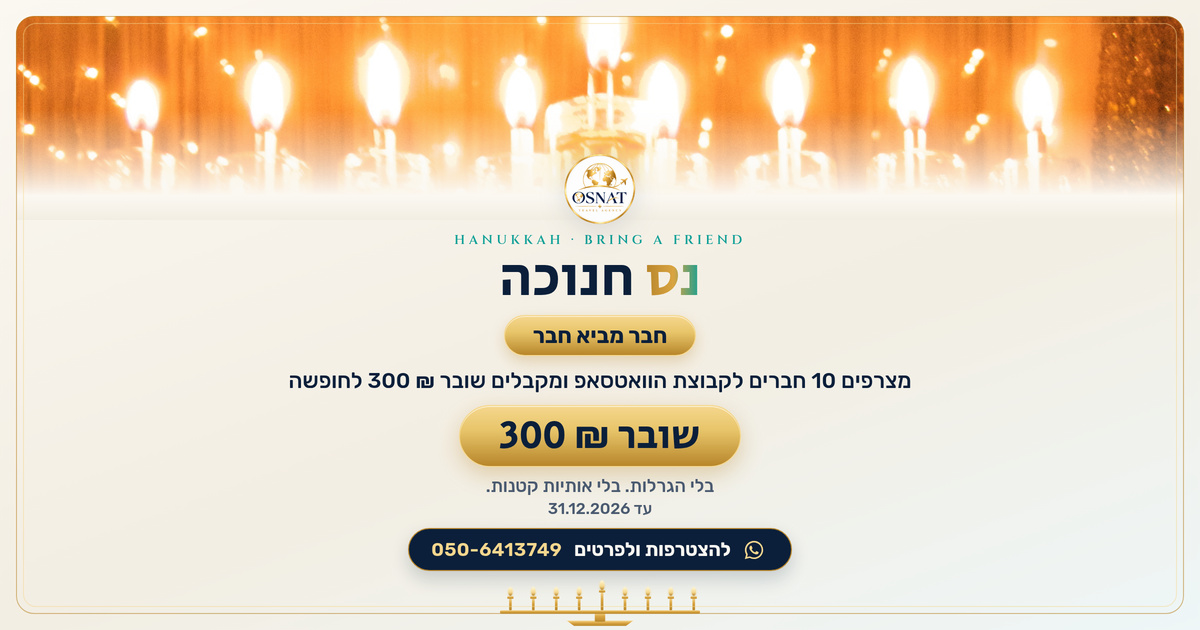
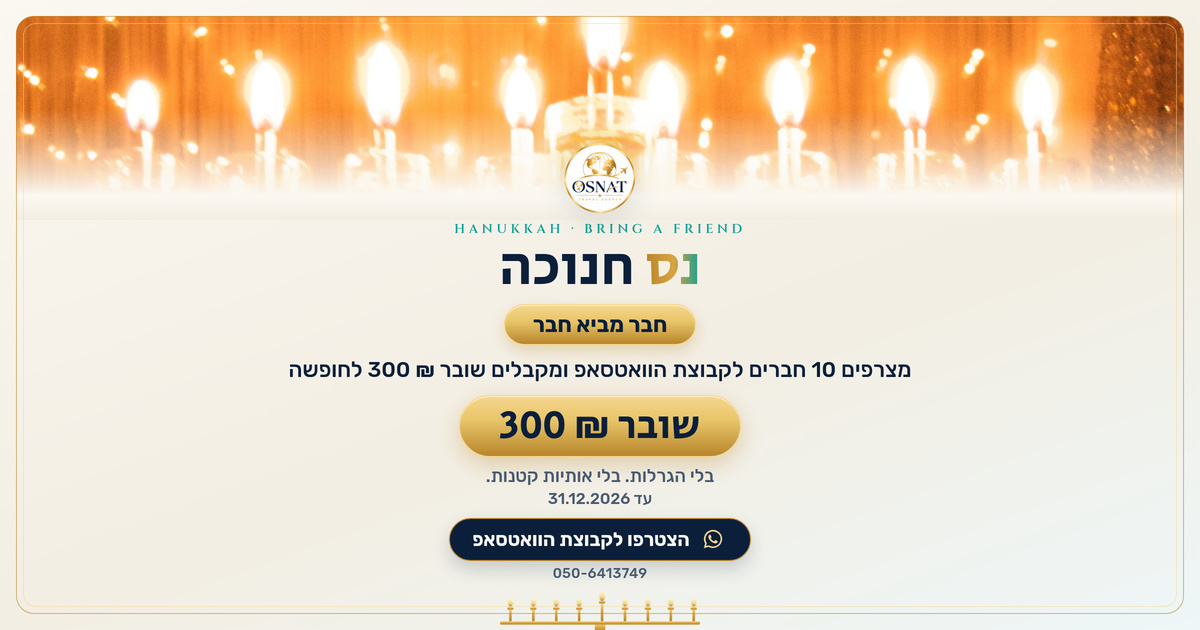
Live: Hanukkah campaign page /hanukkah/ + 'מבצעים' top-bar link (brand hidden <=1500px, tighter links <=1860px); ₪ rendered in Rubik (Secular One draws it like 'שח')

Changed region(s): [[0.2467, 0.2111, 0.7708, 1.0]]

diff --git a/hanukkah/index.html b/hanukkah/index.html
@@ -1,0 +1,106 @@
+<!DOCTYPE html>
+<html dir="rtl" lang="he"><head><meta charset="utf-8"/><meta property="og:title" content="נס חנוכה – חבר מביא חבר | OSNAT TRAVEL AGENCY"/><meta property="og:image" content="https://osnat-travel.com/hanukkah/og.jpg?v=1"/><meta property="og:image:width" content="1200"/><meta property="og:image:height" content="630"/><meta property="og:description" content="מצרפים 10 חברים לקבוצת הוואטסאפ ומקבלים שובר 300 ₪ להזמנת חופשה. בלי הגרלות. בלי אותיות קטנות."/><meta property="og:url" content="https://osnat-travel.com/hanukkah/"/><meta property="og:type" content="website"/><meta property="og:locale" content="he_IL"/><meta property="og:site_name" content="OSNAT TRAVEL AGENCY"/><meta name="twitter:card" content="summary_large_image"/><meta name="description" content="מצרפים 10 חברים לקבוצת הוואטסאפ ומקבלים שובר 300 ₪ להזמנת חופשה. בלי הגרלות. בלי אותיות קטנות."/><meta content="#FBF8F2" name="theme-color"/><meta content="width=device-width,initial-scale=1" name="viewport"/>
+<title>נס חנוכה – חבר מביא חבר | OSNAT TRAVEL AGENCY</title>
+<link href="/assets/favicon-32.png" rel="icon" type="image/png"/><link href="/apple-touch-icon.png" rel="apple-touch-icon"/><meta content="OSNAT TRAVEL" name="apple-mobile-web-app-title"/>
+<link href="https://fonts.googleapis.com/css2?family=Heebo:wght@300;400;600;800&amp;family=Cinzel:wght@600&amp;display=swap" rel="stylesheet"/>
+<style>
+:root{--navy:#0b1b33;--navy2:#132a4d;--gold:#d4af37;--gold2:#f3d77a}
+*{box-sizing:border-box}body{margin:0;font-family:'Heebo',sans-serif;background:#f7f3ea;color:var(--navy)}
+.hero{background:radial-gradient(circle at 50% 0,#1d3a66 0,var(--navy) 70%);color:#fff;text-align:center;padding:70px 20px 60px;border-bottom:3px solid var(--gold)}
+.hero img{width:120px;height:120px;object-fit:contain;background:#fff;border-radius:22px;padding:8px;box-shadow:0 8px 30px rgba(0,0,0,.4)}
+.hero .brand{font-family:'Cinzel',serif;color:var(--gold);letter-spacing:3px;margin:18px 0 4px;font-size:15px}
+.hero h1{font-size:clamp(30px,8vw,48px);font-weight:800;margin:4px 0}.hero p{color:#d9e2f0;font-weight:300;margin:6px 0 0;font-size:17px}
+.hero .line{width:70px;height:2px;background:var(--gold);margin:16px auto}
+.grid{max-width:1150px;margin:-30px auto 40px;padding:0 16px;display:grid;gap:22px;grid-template-columns:repeat(auto-fill,minmax(300px,1fr))}
+.card{background:#fff;border-radius:20px;overflow:hidden;box-shadow:0 6px 22px rgba(11,27,51,.12);transition:transform .3s,box-shadow .3s;border:1px solid rgba(212,175,55,.3);display:flex;flex-direction:column}
+.card:hover{transform:translateY(-6px);box-shadow:0 16px 40px rgba(11,27,51,.22)}
+.img{position:relative;display:block;aspect-ratio:16/10;overflow:hidden}.img img{width:100%;height:100%;object-fit:cover;transition:transform .6s}.card:hover .img img{transform:scale(1.07)}
+.date{position:absolute;bottom:12px;right:12px;background:rgba(11,27,51,.85);color:var(--gold2);padding:6px 12px;border-radius:999px;font-size:14px;font-weight:600}
+.body{padding:18px 20px 20px;display:flex;flex-direction:column;flex:1}h2{margin:0 0 8px;font-size:24px;font-weight:800}
+ul{list-style:none;padding:0;margin:0 0 14px;color:#3a4a63}li{padding:3px 0}li:before{content:"✦ ";color:var(--gold)}
+.price{margin-top:auto;border-top:1px dashed #e3d6ad;padding-top:12px}.price b{font-size:28px;color:var(--navy)}.price span{color:#6b7a90}.price small{display:block;color:#8a96a8}
+.cta{margin-top:14px;display:block;text-align:center;padding:13px;border-radius:12px;background:linear-gradient(135deg,var(--gold),var(--gold2));color:var(--navy);font-weight:800;text-decoration:none;font-size:17px;transition:filter .2s}.cta:hover{filter:brightness(1.08)}
+footer{text-align:center;padding:30px 16px 50px;color:#56657c}footer a{display:inline-block;margin-top:10px;background:#25d366;color:#fff;padding:12px 22px;border-radius:999px;text-decoration:none;font-weight:600}
+</style>
+<link href="https://fonts.googleapis.com/css2?family=Heebo:wght@400;600&amp;display=swap" rel="stylesheet"/>
+<link href="/assets/vn/navbar.css" rel="stylesheet"/><script defer="" src="/assets/vn/navbar.js"></script><link href="https://fonts.googleapis.com/css2?family=Cinzel:wght@500;600&amp;family=Secular+One&amp;family=Rubik:wght@300;400;500;700&amp;display=swap" rel="stylesheet"/><link href="/assets/vn/vn-theme.css" rel="stylesheet"/>
+<link rel="canonical" href="https://osnat-travel.com/hanukkah/"><link rel="stylesheet" href="/hanukkah/hanukkah.css"></head><body class="pg-packages pg-hanukkah">
+<!-- HERO: to swap the photo replace hero.jpg (desktop) / hero-mobile.jpg (mobile) in src/pages/hanukkah/ and update the credit line in the footer -->
+<header class="hero hk-hero">
+<div class="hk-photo"><picture><source media="(max-width:760px)" srcset="/hanukkah/hero-mobile.jpg"/><img src="/hanukkah/hero.jpg" alt="חנוכייה עם נרות דולקים" fetchpriority="high"/></picture></div>
+<img class="hk-logo" alt="OSNAT TRAVEL AGENCY" src="/assets/logo.png"/>
+<p class="k">HANUKKAH · BRING A FRIEND</p>
+<h1>נס <span class="grad">חנוכה</span></h1>
+<p class="hk-tag">חבר מביא חבר</p>
+<p class="hk-lead">מצרפים <b>10</b> חברים לקבוצת הוואטסאפ של OSNAT TRAVEL AGENCY ומקבלים שובר <b>300 <span class="hk-ils">₪</span></b> להזמנת חופשה</p>
+<p class="hk-slogan">בלי הגרלות. בלי אותיות קטנות.</p>
+<p class="hk-until">הקמפיין עד <bdi>31.12.2026</bdi></p>
+<div class="hk-ctas">
+<a class="cta hk-btn hk-join" href="https://chat.whatsapp.com/CuZb58hu9zpA4V2IP5JL3p?mode=gi_t" target="_blank" rel="noopener"><svg viewBox="0 0 24 24" aria-hidden="true"><path d="M17.47 14.38c-.3-.15-1.76-.87-2.03-.97-.27-.1-.47-.15-.67.15-.2.3-.77.97-.94 1.16-.17.2-.35.22-.64.07-.3-.15-1.26-.46-2.39-1.47-.88-.79-1.48-1.76-1.65-2.06-.17-.3-.02-.46.13-.6.13-.13.3-.35.45-.52.15-.17.2-.3.3-.5.1-.2.05-.37-.02-.52-.08-.15-.67-1.61-.92-2.21-.24-.58-.49-.5-.67-.51h-.57c-.2 0-.52.07-.79.37-.27.3-1.04 1.02-1.04 2.48s1.07 2.88 1.21 3.07c.15.2 2.1 3.2 5.08 4.49.71.31 1.26.49 1.69.63.71.23 1.36.2 1.87.12.57-.09 1.76-.72 2.01-1.41.25-.7.25-1.29.17-1.41-.07-.13-.27-.2-.57-.35zM12.05 21.79h-.01a9.87 9.87 0 0 1-5.03-1.38l-.36-.21-3.74.98 1-3.65-.24-.37A9.86 9.86 0 0 1 2.15 12C2.15 6.55 6.6 2.1 12.06 2.1c2.64 0 5.12 1.03 6.99 2.9a9.82 9.82 0 0 1 2.89 7c0 5.45-4.44 9.89-9.89 9.89zM20.46 3.49A11.82 11.82 0 0 0 12.05 0C5.5 0 .16 5.34.16 11.89c0 2.1.55 4.14 1.59 5.95L.06 24l6.31-1.65a11.88 11.88 0 0 0 5.68 1.45h.01c6.55 0 11.89-5.34 11.89-11.9 0-3.18-1.24-6.16-3.49-8.41z"/></svg>הצטרפו לקבוצת הוואטסאפ</a>
+<a class="cta hk-btn hk-btn-ghost" href="#share">שתפו עם חברים</a>
+</div>
+</header>
+
+<section class="hk-sec">
+<p class="k">HOW IT WORKS</p>
+<h2 class="hk-h">איך זה <span class="grad">עובד</span></h2>
+<main class="grid hk-steps">
+<article class="card"><div class="body"><span class="hk-num">1</span><h2>שולחים לחברים את הקישור</h2><ul><li>משתפים את הקישור לקבוצת הוואטסאפ של OSNAT TRAVEL AGENCY</li></ul></div></article>
+<article class="card"><div class="body"><span class="hk-num">2</span><h2>10 חברים מצטרפים</h2><ul><li>10 חברים מצטרפים לקבוצה</li></ul></div></article>
+<article class="card"><div class="body"><span class="hk-num">3</span><h2>מקבלים שובר 300 <span class="hk-ils">₪</span></h2><ul><li>שולחים לאסנת צילום מסך של הצטרפות החברים לקבוצה ומקבלים שובר להזמנת חופשה</li></ul></div></article>
+</main>
+</section>
+
+<section class="hk-sec">
+<main class="grid hk-two">
+<article class="card hk-voucher"><div class="body">
+<img class="hk-vimg" src="/hanukkah/voucher.jpg" alt="שובר מתנה 300 ₪ – נס חנוכה, חבר מביא חבר (דוגמה)" loading="lazy"/>
+<p class="k">YOUR VOUCHER</p>
+<h2>שובר <span class="grad">להזמנת חופשה</span></h2>
+<div class="price"><b>300 <span class="hk-ils">₪</span></b> <span>למי שמצרף 10 חברים לקבוצה</span></div>
+<a class="cta hk-btn hk-sec-wa" href="https://wa.me/972506413749?text=%D7%94%D7%99%D7%99%20%D7%90%D7%A1%D7%A0%D7%AA%2C%20%D7%A9%D7%99%D7%AA%D7%A4%D7%AA%D7%99%20%D7%90%D7%AA%20%D7%A7%D7%91%D7%95%D7%A6%D7%AA%20%D7%94%D7%95%D7%95%D7%90%D7%98%D7%A1%D7%90%D7%A4%20%D7%91%D7%9E%D7%91%D7%A6%D7%A2%20%D7%A0%D7%A1%20%D7%97%D7%A0%D7%95%D7%9B%D7%94%20%D7%95-10%20%D7%97%D7%91%D7%A8%D7%99%D7%9D%20%D7%94%D7%A6%D7%98%D7%A8%D7%A4%D7%95.%20%D7%9E%D7%A6%D7%A8%D7%A3%2F%D7%AA%20%D7%A6%D7%99%D7%9C%D7%95%D7%9D%20%D7%9E%D7%A1%D7%9A%20%D7%A9%D7%9C%20%D7%94%D7%A6%D7%98%D7%A8%D7%A4%D7%95%D7%AA%D7%9D%20%D7%9C%D7%A7%D7%91%D7%9C%D7%AA%20%D7%94%D7%A9%D7%95%D7%91%D7%A8." target="_blank" rel="noopener">שליחת צילום מסך לאסנת בוואטסאפ</a>
+</div></article>
+<article class="card"><div class="body">
+<p class="k">THE TERMS</p>
+<h2>תנאי <span class="grad">השובר</span></h2>
+<ul>
+<li>הקמפיין עד 31.12.2026</li>
+<li>כדי לקבל את השובר, מציגים צילום מסך של הצטרפות החברים לקבוצה</li>
+<li>אפשר לממש את השובר בהזמנת מלון וטיסה, או מלון בלבד</li>
+<li>השובר תקף לשנה מיום ההנפקה</li>
+<li>אפשר להעביר את השובר לכל אדם</li>
+<li>אם ההזמנה בוטלה, אפשר לממש את השובר בהזמנה הבאה</li>
+<li>אי אפשר לפדות את השובר בכסף</li>
+</ul>
+</div></article>
+</main>
+</section>
+
+<section class="hk-sec" id="share">
+<p class="k">SHARE WITH FRIENDS</p>
+<h2 class="hk-h">שתפו <span class="grad">עם חברים</span></h2>
+<main class="grid hk-one">
+<article class="card"><div class="body">
+<ul><li>שולחים לחברים הודעה מוכנה עם הקישור לקבוצה, או מעתיקים את הקישור</li></ul>
+<div class="hk-ctas">
+<a class="cta hk-btn hk-sec-wa" href="https://wa.me/?text=%D7%94%D7%99%D7%99%21%20%D7%9E%D7%A6%D7%98%D7%A8%D7%A4%D7%99%D7%9D%20%D7%9C%D7%A7%D7%91%D7%95%D7%A6%D7%AA%20%D7%94%D7%95%D7%95%D7%90%D7%98%D7%A1%D7%90%D7%A4%20%D7%A9%D7%9C%20OSNAT%20TRAVEL%20AGENCY%20%E2%80%93%20%D7%97%D7%95%D7%A4%D7%A9%D7%95%D7%AA%20%D7%91%D7%94%D7%AA%D7%90%D7%9E%D7%94%20%D7%90%D7%99%D7%A9%D7%99%D7%AA%3A%0Ahttps%3A%2F%2Fchat.whatsapp.com%2FCuZb58hu9zpA4V2IP5JL3p%3Fmode%3Dgi_t" target="_blank" rel="noopener">שיתוף בוואטסאפ</a>
+<a class="cta hk-btn hk-btn-ghost" href="#" onclick="var b=this,t='https://chat.whatsapp.com/CuZb58hu9zpA4V2IP5JL3p?mode=gi_t';(navigator.clipboard?navigator.clipboard.writeText(t):Promise.reject()).then(function(){b.textContent='הקישור הועתק ✓'},function(){window.prompt('העתיקו את הקישור:',t)});return false">העתקת הקישור לקבוצה</a>
+</div>
+</div></article>
+</main>
+</section>
+
+<section class="hk-sec hk-end">
+<p class="k">JOIN THE GROUP</p>
+<h2 class="hk-h">מצטרפים <span class="grad">לקבוצה</span></h2>
+<div class="hk-ctas"><a class="cta hk-btn hk-join" href="https://chat.whatsapp.com/CuZb58hu9zpA4V2IP5JL3p?mode=gi_t" target="_blank" rel="noopener"><svg viewBox="0 0 24 24" aria-hidden="true"><path d="M17.47 14.38c-.3-.15-1.76-.87-2.03-.97-.27-.1-.47-.15-.67.15-.2.3-.77.97-.94 1.16-.17.2-.35.22-.64.07-.3-.15-1.26-.46-2.39-1.47-.88-.79-1.48-1.76-1.65-2.06-.17-.3-.02-.46.13-.6.13-.13.3-.35.45-.52.15-.17.2-.3.3-.5.1-.2.05-.37-.02-.52-.08-.15-.67-1.61-.92-2.21-.24-.58-.49-.5-.67-.51h-.57c-.2 0-.52.07-.79.37-.27.3-1.04 1.02-1.04 2.48s1.07 2.88 1.21 3.07c.15.2 2.1 3.2 5.08 4.49.71.31 1.26.49 1.69.63.71.23 1.36.2 1.87.12.57-.09 1.76-.72 2.01-1.41.25-.7.25-1.29.17-1.41-.07-.13-.27-.2-.57-.35zM12.05 21.79h-.01a9.87 9.87 0 0 1-5.03-1.38l-.36-.21-3.74.98 1-3.65-.24-.37A9.86 9.86 0 0 1 2.15 12C2.15 6.55 6.6 2.1 12.06 2.1c2.64 0 5.12 1.03 6.99 2.9a9.82 9.82 0 0 1 2.89 7c0 5.45-4.44 9.89-9.89 9.89zM20.46 3.49A11.82 11.82 0 0 0 12.05 0C5.5 0 .16 5.34.16 11.89c0 2.1.55 4.14 1.59 5.95L.06 24l6.31-1.65a11.88 11.88 0 0 0 5.68 1.45h.01c6.55 0 11.89-5.34 11.89-11.9 0-3.18-1.24-6.16-3.49-8.41z"/></svg>הצטרפו לקבוצת הוואטסאפ</a></div>
+</section>
+
+<footer>שאלות על המבצע? כתבו לנו בוואטסאפ או התקשרו <bdi>050-6413749</bdi><br/><a href="https://wa.me/972506413749?text=%D7%94%D7%99%D7%99%20%D7%90%D7%A1%D7%A0%D7%AA%2C%20%D7%99%D7%A9%20%D7%9C%D7%99%20%D7%A9%D7%90%D7%9C%D7%94%20%D7%A2%D7%9C%20%D7%9E%D7%91%D7%A6%D7%A2%20%D7%A0%D7%A1%20%D7%97%D7%A0%D7%95%D7%9B%D7%94%20%E2%80%93%20%D7%97%D7%91%D7%A8%20%D7%9E%D7%91%D7%99%D7%90%20%D7%97%D7%91%D7%A8" target="_blank" rel="noopener">💬 דברו איתנו בוואטסאפ</a>
+<p class="hk-credit" dir="ltr">Photo: Daniel Dimitrov (Wikimedia Commons: Bacillus.Bulgaricus), <a href="https://creativecommons.org/licenses/by-sa/4.0/" target="_blank" rel="noopener">CC BY-SA 4.0</a> · <a href="https://commons.wikimedia.org/wiki/File:A_Hanukkah_menorah_(Chanukiah).jpg" target="_blank" rel="noopener">A Hanukkah menorah (Chanukiah).jpg</a> · cropped</p></footer>
+<div class="hk-sticky"><a class="cta hk-btn hk-join" href="https://chat.whatsapp.com/CuZb58hu9zpA4V2IP5JL3p?mode=gi_t" target="_blank" rel="noopener"><svg viewBox="0 0 24 24" aria-hidden="true"><path d="M17.47 14.38c-.3-.15-1.76-.87-2.03-.97-.27-.1-.47-.15-.67.15-.2.3-.77.97-.94 1.16-.17.2-.35.22-.64.07-.3-.15-1.26-.46-2.39-1.47-.88-.79-1.48-1.76-1.65-2.06-.17-.3-.02-.46.13-.6.13-.13.3-.35.45-.52.15-.17.2-.3.3-.5.1-.2.05-.37-.02-.52-.08-.15-.67-1.61-.92-2.21-.24-.58-.49-.5-.67-.51h-.57c-.2 0-.52.07-.79.37-.27.3-1.04 1.02-1.04 2.48s1.07 2.88 1.21 3.07c.15.2 2.1 3.2 5.08 4.49.71.31 1.26.49 1.69.63.71.23 1.36.2 1.87.12.57-.09 1.76-.72 2.01-1.41.25-.7.25-1.29.17-1.41-.07-.13-.27-.2-.57-.35zM12.05 21.79h-.01a9.87 9.87 0 0 1-5.03-1.38l-.36-.21-3.74.98 1-3.65-.24-.37A9.86 9.86 0 0 1 2.15 12C2.15 6.55 6.6 2.1 12.06 2.1c2.64 0 5.12 1.03 6.99 2.9a9.82 9.82 0 0 1 2.89 7c0 5.45-4.44 9.89-9.89 9.89zM20.46 3.49A11.82 11.82 0 0 0 12.05 0C5.5 0 .16 5.34.16 11.89c0 2.1.55 4.14 1.59 5.95L.06 24l6.31-1.65a11.88 11.88 0 0 0 5.68 1.45h.01c6.55 0 11.89-5.34 11.89-11.9 0-3.18-1.24-6.16-3.49-8.41z"/></svg>הצטרפו לקבוצת הוואטסאפ</a></div>
+<script>/* sticky join bar shows only once the top join button has scrolled out of view, and hides again at the bottom join button */
+(function(){var b=document.querySelector('.hk-sticky'),t=document.querySelector('.hk-hero a.hk-join'),e=document.querySelector('.hk-end a.hk-join');if(!b||!t||!('IntersectionObserver' in window)){if(b)b.classList.add('hk-on');return}
+var v={};var io=new IntersectionObserver(function(es){es.forEach(function(x){v[x.target===t?'t':'e']=x.isIntersecting});b.classList.toggle('hk-on',!v.t&&!v.e)});io.observe(t);if(e)io.observe(e)})();</script>
+<!--vn-ai-chat--><link rel="stylesheet" href="/assets/vn/ai-chat.css"><script src="/assets/vn/ai-chat.js" data-packages="/assets/vn/ai-packages.json" data-endpoint="https://osnat-ai-chat.osnat-travel.workers.dev" defer></script>
+</body></html>

diff --git a/hanukkah/hanukkah.css b/hanukkah/hanukkah.css
@@ -1,0 +1,50 @@
+/* נס חנוכה – חבר מביא חבר Page-only additions on top of vn-theme (pg-packages). */
+.pg-hanukkah .hk-hero{position:relative;padding:0 20px 50px!important;overflow:hidden}
+.hk-photo{position:relative;height:clamp(200px,34vw,360px);margin:0 -20px;overflow:hidden}
+.hk-photo img{width:100%!important;height:100%!important;object-fit:cover;object-position:center 30%;border-radius:0!important;box-shadow:none!important;padding:0!important;background:none!important;display:block}
+.hk-photo:after{content:"";position:absolute;inset:0;background:linear-gradient(180deg,rgba(251,248,242,0) 35%,rgba(251,248,242,.55) 70%,var(--vn-bg,#FBF8F2) 100%)}
+.pg-hanukkah .hero .hk-logo{position:relative;z-index:2;width:96px!important;height:96px!important;margin-top:-56px;background:#fff;border-radius:22px;padding:6px;object-fit:contain}
+.pg-hanukkah .hero h1{margin:6px 0 6px!important}
+.hk-tag{display:inline-block;margin:4px 0 0!important;padding:7px 26px;border-radius:999px;background:linear-gradient(180deg,#F5D78E,#E8C56A 42%,#B8862B);color:var(--vn-ink,#0B1F3A)!important;font-family:"Secular One",Rubik,sans-serif;font-size:1.25rem!important;box-shadow:0 6px 14px rgba(184,134,43,.28)}
+.hk-lead{max-width:680px;margin:18px auto 0!important;font-size:1.2rem!important;color:var(--vn-ink,#0B1F3A)!important;line-height:1.6}
+.hk-lead b{font-family:"Secular One",Rubik,sans-serif;font-weight:400;color:var(--vn-gold-d,#B8862B)}
+.hk-slogan{margin:14px 0 0!important;font-family:"Secular One",Rubik,sans-serif;font-size:1.5rem!important;color:var(--vn-ink,#0B1F3A)!important}
+.hk-until{margin:6px 0 0!important;font-size:1rem!important}
+.hk-ctas{display:flex;flex-wrap:wrap;gap:12px;justify-content:center;margin-top:22px}
+.pg-hanukkah .hk-btn{display:inline-flex!important;align-items:center;justify-content:center;margin-top:0!important;min-width:220px;padding:13px 26px!important}
+.pg-hanukkah .hk-btn-ghost{background:#fff!important;color:var(--vn-ink,#0B1F3A)!important;border:1px solid rgba(184,134,43,.55)!important}
+.pg-hanukkah .hk-wa{background:#25D366!important;color:#04130a!important}
+.hk-sec{padding:10px 0 34px;text-align:center}
+.hk-h{font-family:"Secular One",Rubik,sans-serif;font-weight:400;font-size:clamp(1.9rem,5vw,2.6rem);color:var(--vn-ink,#0B1F3A);margin:4px 0 22px}
+.pg-hanukkah .grid{margin-top:0!important;text-align:right}
+.hk-steps{grid-template-columns:repeat(auto-fit,minmax(260px,1fr))!important}
+.hk-num{display:grid;place-items:center;width:46px;height:46px;border-radius:50%;margin-bottom:10px;background:linear-gradient(135deg,#B8862B,#D9A441 55%,#0E9F96);color:#fff;font-family:"Secular One",Rubik,sans-serif;font-size:1.4rem}
+.hk-two{grid-template-columns:minmax(0,1fr) minmax(0,1.3fr)!important;align-items:stretch}
+.hk-one{grid-template-columns:minmax(0,760px)!important;justify-content:center}
+.hk-voucher{border:1.5px solid rgba(184,134,43,.6)!important;background:linear-gradient(160deg,#fff,#FBF3DE)!important}
+.hk-voucher .price b{font-size:3.4rem!important;line-height:1.1}
+.hk-voucher .price span{display:block;margin-top:4px}
+.pg-hanukkah .card .k{text-align:right!important}
+.hk-credit{margin:18px 0 0;font-size:.78rem;color:#8a96a8}.pg-hanukkah footer .hk-credit a,.pg-hanukkah footer .hk-credit a:hover{box-shadow:none!important;border:0!important;display:inline!important;margin:0!important;padding:0!important;background:none!important;color:inherit!important;text-decoration:underline!important;font-weight:400!important}
+@media(max-width:760px){.hk-two{grid-template-columns:1fr!important}.pg-hanukkah .hk-btn{min-width:0;width:100%}.hk-lead{font-size:1.08rem!important}}
+.hk-photo picture{display:block;width:100%;height:100%}
+.hk-vimg{display:block;width:100%;height:auto;border-radius:14px;margin:0 0 14px;box-shadow:0 8px 22px rgba(11,31,58,.12)}
+@media(max-width:760px){.hk-photo{height:260px}}
+/* v2: primary "join the WhatsApp group" button (top, end, sticky on mobile); other WhatsApp buttons secondary */
+.pg-hanukkah a.hk-join{background:#25D366!important;color:#04130a!important;font-weight:600!important;font-size:1.1rem!important;gap:10px;padding:15px 30px!important;min-width:260px;box-shadow:0 10px 26px rgba(37,211,102,.35)!important;border:0!important}
+.pg-hanukkah a.hk-join:hover{background:#1fbe5b!important}
+.hk-join svg{width:22px;height:22px;fill:currentColor;flex:none}
+.pg-hanukkah a.hk-sec-wa{background:#fff!important;color:#0a7a3a!important;border:1.5px solid #25D366!important;box-shadow:none!important}
+.hk-end{padding-bottom:50px}
+.hk-sticky{display:none}
+@media(max-width:760px){
+ .hk-sticky{display:block;transform:translateY(110%);transition:transform .25s;position:fixed;inset-inline:0;bottom:0;z-index:9000;padding:10px 14px calc(10px + env(safe-area-inset-bottom));background:rgba(251,248,242,.94);backdrop-filter:blur(10px);-webkit-backdrop-filter:blur(10px);border-top:1px solid rgba(184,134,43,.3);box-shadow:0 -6px 20px rgba(11,31,58,.08)}
+ .hk-sticky.hk-on{transform:none}
+ .hk-sticky a.hk-join{width:100%;margin:0!important;padding:13px 18px!important}
+ body.pg-hanukkah{padding-bottom:84px}
+ .pg-hanukkah .oac:not(.oac-open){display:none} /* mobile: the sticky join bar replaces the floating assistant bubble on this page (assistant still in the menu) */
+ .hk-end{padding-inline:16px}
+}
+
+/* ₪: Secular One draws the shekel sign like "שח" – use Rubik for the sign only */
+.hk-ils,.price .hk-ils{display:inline!important;font:inherit;font-family:Rubik,sans-serif!important;font-weight:700!important;color:inherit!important;margin:0!important;padding:0!important}

diff --git a/preview/hanukkah/index.html b/preview/hanukkah/index.html
@@ -32,7 +32,7 @@ footer{text-align:center;padding:30px 16px 50px;color:#56657c}footer a{display:i
 <p class="k">HANUKKAH · BRING A FRIEND</p>
 <h1>נס <span class="grad">חנוכה</span></h1>
 <p class="hk-tag">חבר מביא חבר</p>
-<p class="hk-lead">מצרפים <b>10</b> חברים לקבוצת הוואטסאפ של OSNAT TRAVEL AGENCY ומקבלים שובר <b>300 ₪</b> להזמנת חופשה</p>
+<p class="hk-lead">מצרפים <b>10</b> חברים לקבוצת הוואטסאפ של OSNAT TRAVEL AGENCY ומקבלים שובר <b>300 <span class="hk-ils">₪</span></b> להזמנת חופשה</p>
 <p class="hk-slogan">בלי הגרלות. בלי אותיות קטנות.</p>
 <p class="hk-until">הקמפיין עד <bdi>31.12.2026</bdi></p>
 <div class="hk-ctas">
@@ -47,7 +47,7 @@ footer{text-align:center;padding:30px 16px 50px;color:#56657c}footer a{display:i
 <main class="grid hk-steps">
 <article class="card"><div class="body"><span class="hk-num">1</span><h2>שולחים לחברים את הקישור</h2><ul><li>משתפים את הקישור לקבוצת הוואטסאפ של OSNAT TRAVEL AGENCY</li></ul></div></article>
 <article class="card"><div class="body"><span class="hk-num">2</span><h2>10 חברים מצטרפים</h2><ul><li>10 חברים מצטרפים לקבוצה</li></ul></div></article>
-<article class="card"><div class="body"><span class="hk-num">3</span><h2>מקבלים שובר 300 ₪</h2><ul><li>שולחים לאסנת צילום מסך של הצטרפות החברים לקבוצה ומקבלים שובר להזמנת חופשה</li></ul></div></article>
+<article class="card"><div class="body"><span class="hk-num">3</span><h2>מקבלים שובר 300 <span class="hk-ils">₪</span></h2><ul><li>שולחים לאסנת צילום מסך של הצטרפות החברים לקבוצה ומקבלים שובר להזמנת חופשה</li></ul></div></article>
 </main>
 </section>
 
@@ -57,7 +57,7 @@ footer{text-align:center;padding:30px 16px 50px;color:#56657c}footer a{display:i
 <img class="hk-vimg" src="/preview/hanukkah/voucher.jpg" alt="שובר מתנה 300 ₪ – נס חנוכה, חבר מביא חבר (דוגמה)" loading="lazy"/>
 <p class="k">YOUR VOUCHER</p>
 <h2>שובר <span class="grad">להזמנת חופשה</span></h2>
-<div class="price"><b>300 ₪</b> <span>למי שמצרף 10 חברים לקבוצה</span></div>
+<div class="price"><b>300 <span class="hk-ils">₪</span></b> <span>למי שמצרף 10 חברים לקבוצה</span></div>
 <a class="cta hk-btn hk-sec-wa" href="https://wa.me/972506413749?text=%D7%94%D7%99%D7%99%20%D7%90%D7%A1%D7%A0%D7%AA%2C%20%D7%A9%D7%99%D7%AA%D7%A4%D7%AA%D7%99%20%D7%90%D7%AA%20%D7%A7%D7%91%D7%95%D7%A6%D7%AA%20%D7%94%D7%95%D7%95%D7%90%D7%98%D7%A1%D7%90%D7%A4%20%D7%91%D7%9E%D7%91%D7%A6%D7%A2%20%D7%A0%D7%A1%20%D7%97%D7%A0%D7%95%D7%9B%D7%94%20%D7%95-10%20%D7%97%D7%91%D7%A8%D7%99%D7%9D%20%D7%94%D7%A6%D7%98%D7%A8%D7%A4%D7%95.%20%D7%9E%D7%A6%D7%A8%D7%A3%2F%D7%AA%20%D7%A6%D7%99%D7%9C%D7%95%D7%9D%20%D7%9E%D7%A1%D7%9A%20%D7%A9%D7%9C%20%D7%94%D7%A6%D7%98%D7%A8%D7%A4%D7%95%D7%AA%D7%9D%20%D7%9C%D7%A7%D7%91%D7%9C%D7%AA%20%D7%94%D7%A9%D7%95%D7%91%D7%A8." target="_blank" rel="noopener">שליחת צילום מסך לאסנת בוואטסאפ</a>
 </div></article>
 <article class="card"><div class="body">

diff --git a/assets/vn/navbar.js b/assets/vn/navbar.js
@@ -14,7 +14,7 @@
  var n=document.createElement('nav');n.className='on-nav';n.setAttribute('dir','rtl');n.setAttribute('aria-label','ניווט ראשי');
  n.innerHTML='<a class="on-logo" href="'+P+'/" aria-label="OSNAT TRAVEL – דף הבית"><img src="/assets/logo.png" alt="OSNAT TRAVEL"></a>'+
   '<button class="on-burger" type="button" aria-label="תפריט" aria-expanded="false">'+s('menu')+'</button>'+
-  '<div class="on-links"><a href="'+P+'/blog/"'+cur('/blog/')+'>בלוג</a><a href="'+P+'/packages/"'+cur('/packages/')+'>חבילות</a><a href="'+P+'/#about">אודות</a><a href="'+P+'/ai-chat/"'+cur('/ai-chat/')+'>העוזר החכם</a></div>'+
+  '<div class="on-links"><a href="'+P+'/blog/"'+cur('/blog/')+'>בלוג</a><a href="'+P+'/packages/"'+cur('/packages/')+'>חבילות</a><a href="'+P+'/hanukkah/"'+cur('/hanukkah/')+'>מבצעים</a><a href="'+P+'/#about">אודות</a><a href="'+P+'/ai-chat/"'+cur('/ai-chat/')+'>העוזר החכם</a></div>'+
   '<div class="on-brand" aria-hidden="true"><i></i><span>✦</span><b>OSNAT TRAVEL AGENCY</b><span>✦</span><i class="on-r"></i></div>'+
   '<div class="on-end"><a class="on-ai on-ai-d" href="'+P+'/ai-chat/" data-osnat-chat'+cur('/ai-chat/')+'><svg viewBox="0 0 24 24" aria-hidden="true"><path d="M12 2l2.2 6.6L21 11l-6.8 2.4L12 20l-2.2-6.6L3 11l6.8-2.4z"/></svg>העוזר החכם</a><a class="on-ic fb" href="https://www.facebook.com/OSNAT.Travel/" target="_blank" rel="noopener" aria-label="Facebook">'+s('fb')+'</a>'+
   '<a class="on-ic ig" href="https://www.instagram.com/osnat.travel.agency/" target="_blank" rel="noopener" aria-label="Instagram">'+s('ig')+'</a>'+

diff --git a/preview/hanukkah/hanukkah.css b/preview/hanukkah/hanukkah.css
@@ -1,4 +1,4 @@
-/* נס חנוכה – חבר מביא חבר (preview). Page-only additions on top of vn-theme (pg-packages). */
+/* נס חנוכה – חבר מביא חבר Page-only additions on top of vn-theme (pg-packages). */
 .pg-hanukkah .hk-hero{position:relative;padding:0 20px 50px!important;overflow:hidden}
 .hk-photo{position:relative;height:clamp(200px,34vw,360px);margin:0 -20px;overflow:hidden}
 .hk-photo img{width:100%!important;height:100%!important;object-fit:cover;object-position:center 30%;border-radius:0!important;box-shadow:none!important;padding:0!important;background:none!important;display:block}
@@ -45,3 +45,6 @@
  .pg-hanukkah .oac:not(.oac-open){display:none} /* mobile: the sticky join bar replaces the floating assistant bubble on this page (assistant still in the menu) */
  .hk-end{padding-inline:16px}
 }
+
+/* ₪: Secular One draws the shekel sign like "שח" – use Rubik for the sign only */
+.hk-ils,.price .hk-ils{display:inline!important;font:inherit;font-family:Rubik,sans-serif!important;font-weight:700!important;color:inherit!important;margin:0!important;padding:0!important}

diff --git a/assets/vn/navbar.css b/assets/vn/navbar.css
@@ -40,5 +40,7 @@ body.on-has-nav{padding-top:76px}body.on-has-nav.on-overlay{padding-top:0}
 .on-nav.on-top a.on-ai{color:#fff;text-shadow:none}
 .on-links a.on-ai-m{display:none}
 @media(max-width:1440px){.on-brand i{display:none}}
-@media(max-width:1400px){.on-brand{display:none}}
+@media(max-width:1500px){.on-brand{display:none}}
 @media(max-width:760px){.on-end a.on-ai-d{display:none}.on-nav.open .on-links a.on-ai-m{display:flex;height:auto;padding:12px 16px;margin-top:6px;font-size:18px;color:#fff}}
+/* 5 links: tighter link padding and no decorative lines until there is room for the centred brand */
+@media(min-width:761px) and (max-width:1860px){.on-brand i{display:none}.on-links a{padding:7px 11px}}
